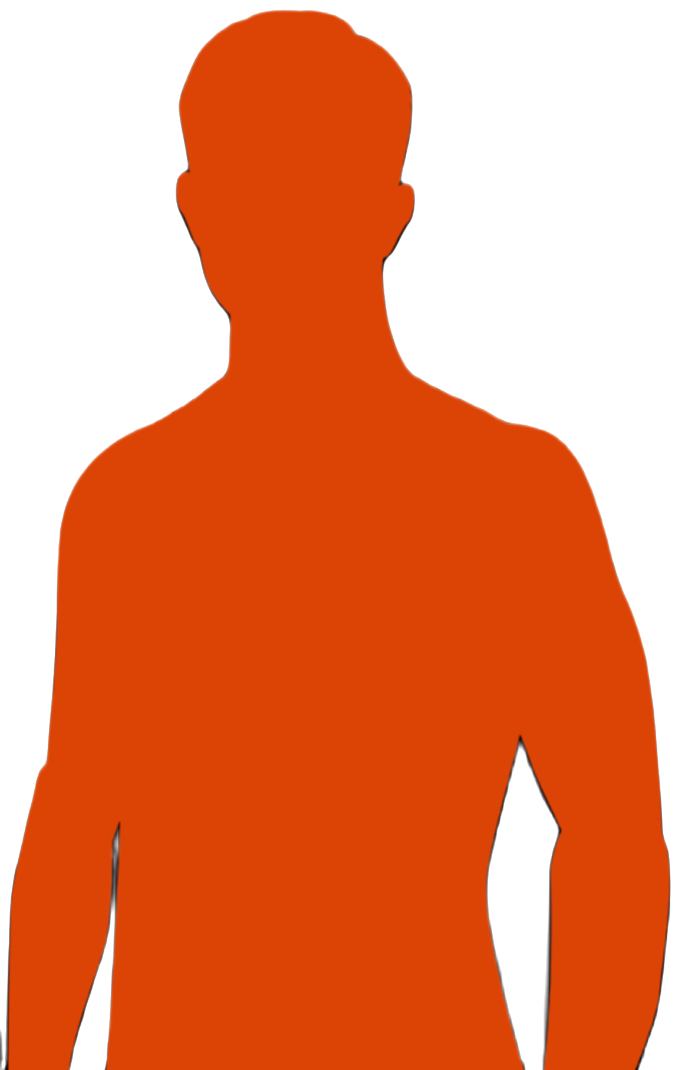
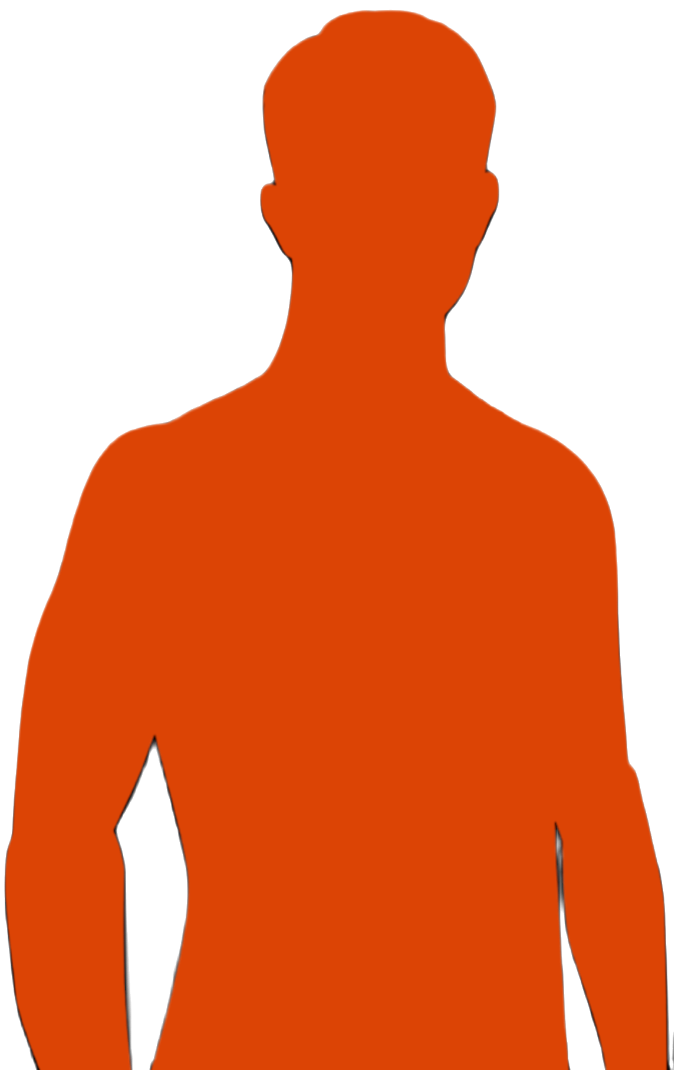
Team page styling + misc styling

diff --git a/src/pages/Player.js b/src/pages/Player.js
@@ -1,5 +1,4 @@
 import { useParams } from 'react-router-dom'
-import Row from 'react-bootstrap/Row';
 import Carousel from 'react-bootstrap/Carousel';
 import Banner from '../components/Banner'
 import MiniBanner from '../components/MiniBanner'
@@ -49,14 +48,16 @@ function Player() {
                 </div>
             </div>
             <MiniBanner>BIO</MiniBanner>
-            <div className='flex justify-center items-center my-5 grid grid-cols-6 gap-3 bio'>
-                <div className='w-full col-span-6 xl:col-start-0 xl:col-span-2'>
-                    <img className='bannerImage' src='\images\Connor.png'/>
+            <div className='grid grid-cols-3 gap-3 justify-center m-4'>
+                <div className='col-span-3 lg:col-span-1 justify-center relative my-auto'>
+                    <img className='m-auto' src={'http://localhost:8001' + player.pfp} onError={(e) => {e.target.src = './images/placeholderSquish.png'}}/>
                 </div>
-                <div className='w-full col-span-6 xl:col-start-4 xl-span-3 preformatted'>
-                    <p className='pre-wrap'>
-                        {player.bio}
-                    </p>
+                <div className='col-span-3 lg:col-span-2 my-auto'>
+                    <div className=' w-full h-full bg-black p-4 rounded text-white relative'>
+                        <div className='whitespace-pre-line text-center bio'>
+                            {player.bio}
+                        </div>
+                    </div>
                 </div>
             </div>
             <MiniBanner>STATS</MiniBanner>
@@ -69,19 +70,21 @@ function Player() {
                 </div>
             </div>
             <MiniBanner>CLIPS</MiniBanner>                   
-            <Row className='p-4 m-0'>
+            <div className='grid grid-cols-12 gap-4 m-4 clips'>
                 {clips.map(video => {
                     return (  
                         <>
-                        <div className='clip-title'>{video.title}</div>
-                        <video controls muted loop className='bg-osu-shine p-1 mx-auto m-4 video-player'>
-                            <source src={'http://localhost:8001' + video.link} type='video/mp4' />
-                            Your browser does not support the video tag.
-                        </video>
+                        <div className='col-span-12 lg:col-span-6 2xl:col-span-4'>
+                            <div className='clip-title'>{video.title}</div>
+                            <video controls muted loop className='bg-osu-shine p-1 mx-auto m-4 video-player'>
+                                <source src={'http://localhost:8001' + video.link} type='video/mp4' />
+                                Your browser does not support the video tag.
+                            </video>
+                        </div>
                         </>
                     )
                 })}
-            </Row>
+            </div>
         </>
     )
 }

diff --git a/src/pages/Alumni.js b/src/pages/Alumni.js
@@ -8,24 +8,33 @@ function Alumni() {
     const navigate = useNavigate()
 
     useEffect(() => {
-        getAlumni()
+        getAlumniData()
     }, [])
 
-    const getAlumni = async () => {
+    const getAlumniData = async () => {
         const response = await fetch('http://localhost:8001/users/alumni')
-        setAlumni(await response.json())
+        const responseBody = await response.json()
+        const tempTeam = await Promise.all(responseBody.map(async (player) => {
+            const profile = await fetch('http://localhost:8001/users/GetPublicProfile/' + player.ign);
+            return profile.json();
+        }));
+        setAlumni(tempTeam);
     }
 
     return(
         <>
             <Banner>ALUMNI</Banner>
 
-            <div>
-                {alumni.map(player => {
+            <div className='grid grid-cols-12 gap-4 m-4 2xl:grid-cols-5'>
+                {alumni.map( player => {
                         return (
-                            <form onSubmit={ async (e) => { navigate('/player/' + player.ign)}}>
-                                <button className="rounded-md bg-osu hover:bg-osu-dark px-10 py-2.5 mt-2.5 text-sm font-semibold text-white shadow-sm" id="privacyToggle" type="submit">{player.firstName} "{player.ign}" {player.lastName}</button>
-                            </form>
+                            <div className='col-span-12 sm:col-span-6 lg:col-span-4 xl:col-span-3 2xl:col-span-1 rounded-2xl border border-white hover:bg-neutral-950' onClick={ async () => {navigate('/player/' + player.ign)}}>
+                                <div className='flex flex-wrap justify-center player-banner'>
+                                    <div className='player-role text-white r6-font font-semibold w-full text-center text-6xl mt-4'>Entry</div>
+                                    <img className='m-auto player-banner-image my-4' src={'http://localhost:8001' + player.pfp} onError={(e) => {e.target.src = './images/placeholderSquish.png'}}/>
+                                    <div className='player-ign text-white r6-font font-semibold w-full text-center text-7xl mb-4'>{player.ign}</div>
+                                </div>
+                            </div>
                         )
                 })}
             </div>

diff --git a/src/pages/BlackTeam.js b/src/pages/BlackTeam.js
@@ -25,14 +25,14 @@ function BlackTeam() {
         <>
             <Banner>Black Team</Banner>
 
-            <div className='grid grid-cols-6 gap-4 m-4'>
+            <div className='grid grid-cols-12 gap-4 m-4 2xl:grid-cols-5'>
                 {team.map( player => {
                         return (
-                            <div className='col-span-6 sm:col-span-3 lg:col-span-2' onClick={ async () => {navigate('/player/' + player.ign)}}>
+                            <div className='col-span-12 sm:col-span-6 lg:col-span-4 xl:col-span-3 2xl:col-span-1 rounded-2xl border border-white hover:bg-zinc-950' onClick={ async () => {navigate('/player/' + player.ign)}}>
                                 <div className='flex flex-wrap justify-center player-banner'>
-                                    <div className='player-role text-osu font-semibold w-full text-center text-5xl'>FLEX</div>
-                                    <img className='m-auto player-banner-image my-4' src={'http://localhost:8001' + player.pfp} onError={(e) => {e.target.src = './images/placeholder.png'}}/>
-                                    <div className='player-ign text-osu font-semibold w-full text-center text-5xl'>Example {player.ign}</div>
+                                    <div className='player-role text-white r6-font font-semibold w-full text-center text-6xl mt-4'>Entry</div>
+                                    <img className='m-auto player-banner-image my-4' src={'http://localhost:8001' + player.pfp} onError={(e) => {e.target.src = './images/placeholderSquish.png'}}/>
+                                    <div className='player-ign text-white r6-font font-semibold w-full text-center text-7xl mb-4'>{player.ign}</div>
                                 </div>
                             </div>
                         )

diff --git a/src/pages/Account.js b/src/pages/Account.js
@@ -189,8 +189,8 @@ function Alumni() {
                 <>
                     <Banner>{user.data.firstName} '{user.data.ign}' {user.data.lastName}</Banner>
                     
-                    {/* Profile Image */}
                     <div className='grid grid-cols-3 gap-3 justify-center m-4'>
+                        {/* Profile Image */}
                         <div className='col-span-3 lg:col-span-1 justify-center relative my-auto'>
                             { pfpUploadToggle ?
                             <div className='flex justify-center w-full'>
@@ -218,7 +218,7 @@ function Alumni() {
                             </div>
                             :
                             <>
-                            <img className='m-auto' src={'http://localhost:8001' + player.pfp}/>
+                            <img className='m-auto' src={'http://localhost:8001' + player.pfp} onError={(e) => {e.target.src = './images/placeholderSquish.png'}}/>
                             <div className='flex'>
                                 <button className='rounded-md bg-transparent px-2.5 py-2.5 text-sm font-semibold shadow-sm scale-150 text-osu hover:text-white mx-auto my-2' onClick={ async (e) => {
                                     setPfpUploadToggle(true)

diff --git a/src/App.css b/src/App.css
@@ -25,8 +25,13 @@
     background-size: 500% 100%;
     animation: gradient 10s ease infinite;
 }
+
 .text-osu {
     color: #DC4405;
+}
+
+.r6-font {
+    font-family: "Scout Condensed Bold";
 }
 
 .banner-block {
@@ -210,13 +215,9 @@ body {
 /*                           Player Page
 /* ################################################################# */
 .bio {
-    color: white;
-    font-family: "Scout Condensed Bold";
-    font-size: 1.5em;
+    font-size: 1.25em;
     max-width: 75%;
     margin: auto;
-    text-align: center;
-    white-space: pre-wrap
 }
 
 .clip-title {
@@ -248,15 +249,15 @@ body {
     max-height: 500px;
 }
 
-.player-banner-image:hover {
-    filter: drop-shadow(1px 1px 5px #dc460575);
+.player-banner:hover > .player-banner-image {
+    filter: drop-shadow(1px 1px 5px #ffffff);
 }
 
 .player-banner .player-role {
-    font-family: "Scout Condensed Bold";
-    /* filter: drop-shadow(1px 1px 1px #FFFFFF); */
+    -webkit-text-stroke: 0.5px #DC4405;
 }
 
 .player-banner .player-ign {
-    font-family: "Scout Condensed Bold";
+    -webkit-text-stroke: 0.5px #DC4405;
 }
+
